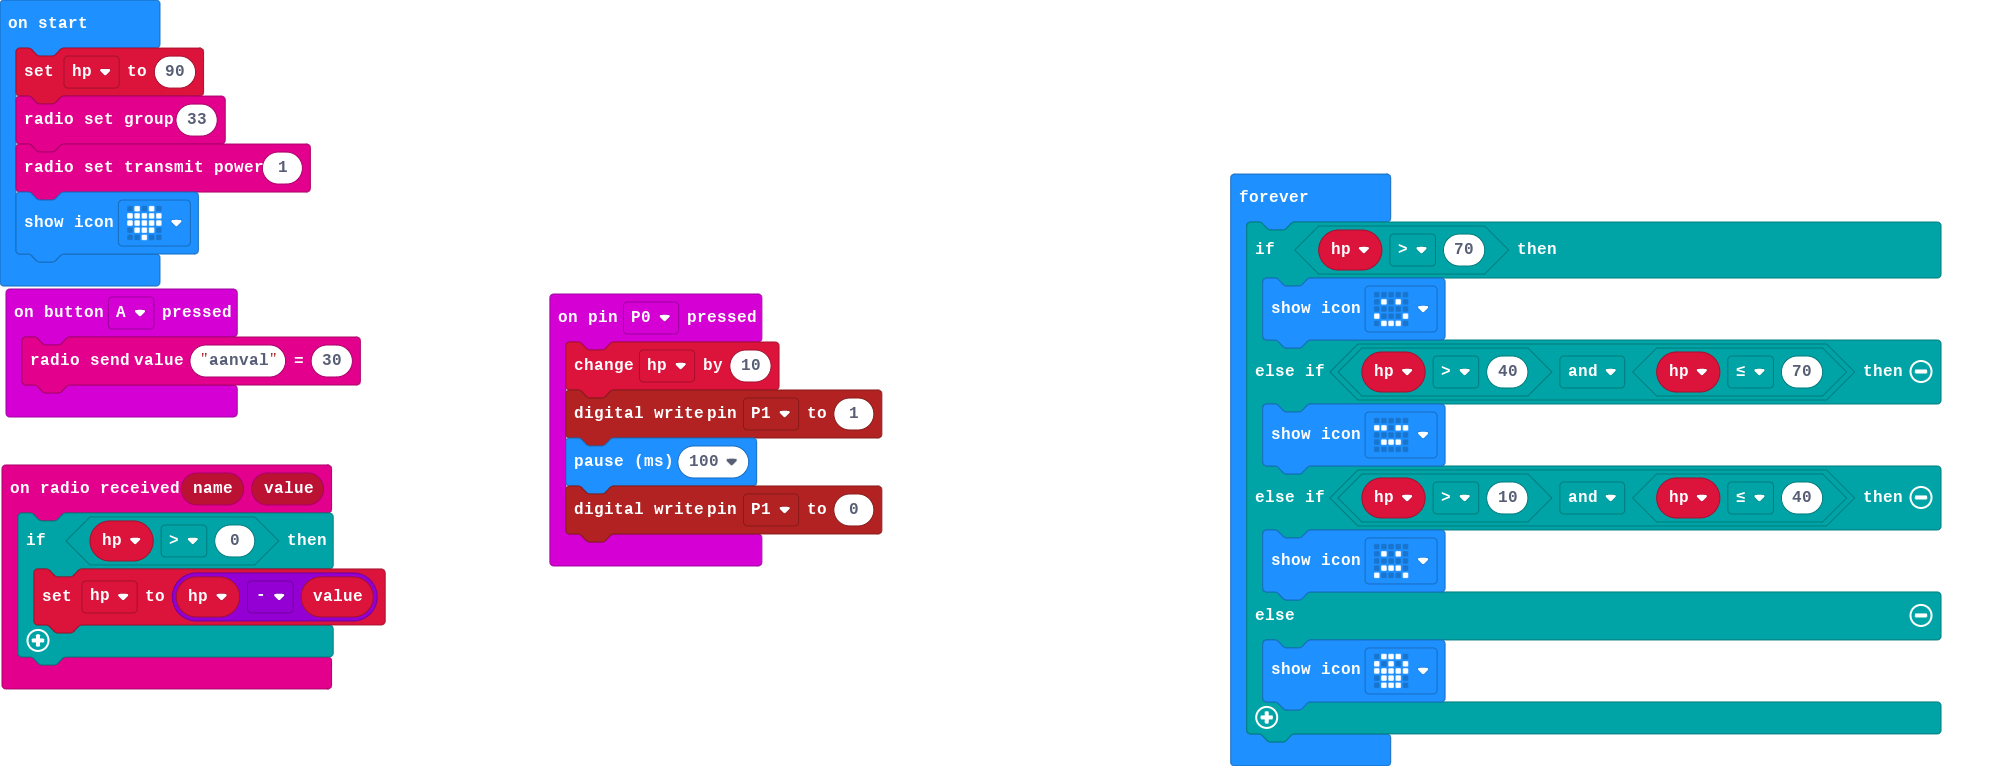
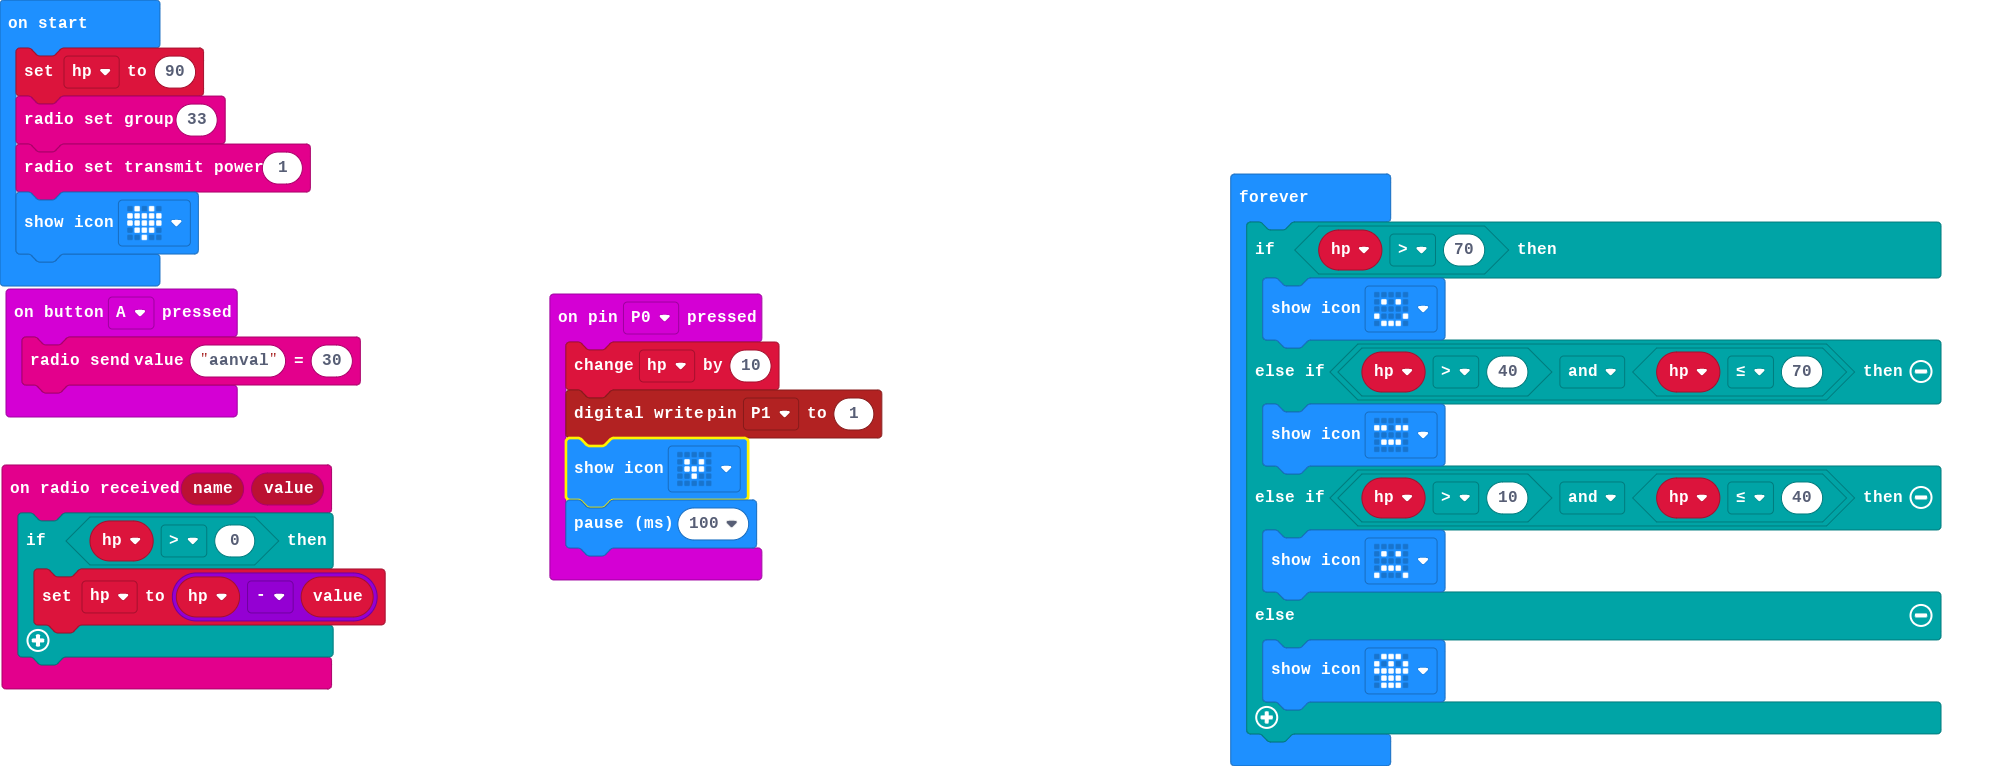
Update main.blocks, main.ts

Changed region(s): [[0.28, 0.5705, 0.4666, 0.7807]]

diff --git a/main.ts b/main.ts
@@ -1,8 +1,8 @@
 input.onPinPressed(TouchPin.P0, function () {
     hp += 10
     pins.digitalWritePin(DigitalPin.P1, 1)
+    basic.showIcon(IconNames.SmallHeart)
     basic.pause(100)
-    pins.digitalWritePin(DigitalPin.P1, 0)
 })
 input.onButtonPressed(Button.A, function () {
     radio.sendValue("aanval", 30)
